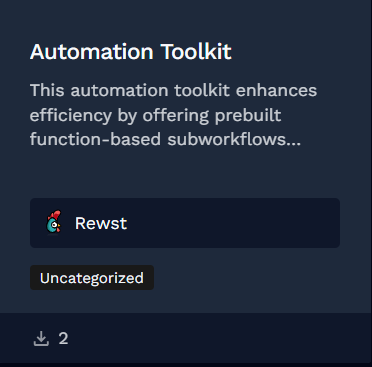
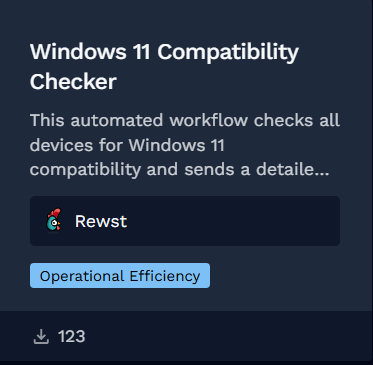
DocsUpdate-2095: giovanni.maligro's Dec 2 changes: Windows 11 Compatibility Checker Crate

diff --git a/documentation/crates/existing-crate-documentation/windows-11-compatibility-checker-crate.md b/documentation/crates/existing-crate-documentation/windows-11-compatibility-checker-crate.md
@@ -1,0 +1,85 @@
+# Windows 11 Compatibility Checker Crate
+
+{% hint style="info" %}
+If you’re new to Crates, read through our introductory Crate documentation [here](https://docs.rewst.help/prebuilt-automations/crates). Find the Crate in our Crate Marketplace.
+{% endhint %}
+
+## What does the Windows 11 Compatibility Checker Crate do? <a href="#what-does-the-browse-rewst-form-triggers-within-a-form-and-attach-to-a-ticket-crate-do" id="what-does-the-browse-rewst-form-triggers-within-a-form-and-attach-to-a-ticket-crate-do"></a>
+
+Our Windows 11 Compatibility Checker Crate checks all devices for Windows 11 compatibility and sends a detailed report for incompatible devices through tickets and email reports. The Windows 11 Compatibility Checker Crate does not automatically upgrade your devices to Windows 11.
+
+The Crate workflow is triggered after completing a form that takes in details on where and how to send the report. The workflow then detects the default RMM and PSA of the organization the workflow is running on, and uses them in generating the list of devices and sending reports respectively.
+
+### Workflow breakdown
+
+1. The workflow begins with the **START** task using the **noop** action, which serves as the entry point and immediately transitions to the next step.
+2. The **get\_organization\_computers** task executes the **List Computers** action to retrieve all computers from the organization using the default RMM system, with retry logic implemented for N-able connections to handle temporary connectivity issues.
+3. The **filter\_windows\_devices** task uses the **Filter List** action to remove non-Windows computers from the device list, specifically excluding devices like Macs and focusing only on Windows-based systems.
+4. The **collect\_hardware\_information** task runs the **Run PowerShell via RMM** action with items iteration, executing a PowerShell script on each Windows device to gather hardware specifications including CPU, RAM, TPM status, and storage information.
+5. The **check\_compatibility\_requirements** task uses the **Set Variable** action to evaluate each device's hardware specifications against Windows 11 minimum requirements, determining compatibility status for each system.
+6. The **compile\_compatibility\_data** task executes the **Transform Data** action to organize the collected information into a structured format, including device names, last login information, and compatibility status.
+7. The **generate\_csv\_report** task uses the **Create CSV** action to compile all compatibility data into a comprehensive CSV report with columns for device name, last login, compatibility status, and hardware details.
+8. The **send\_compatibility\_report** task executes the **Send Email with Attachment** action using the configured cron\_email settings to distribute the CSV report to designated recipients.
+9. The workflow concludes with the **END** task using the **noop** action, marking the successful completion of the Windows 11 compatibility assessment and reporting process.
+
+## Crate prerequisites
+
+Your [PSA must be successfully integrated](../../configuration/integrations/top-5-integration-types-get-started-with-integrations-in-rewst.md#psa-integrations) with Rewst.
+
+## Unpack the Windows 11 Compatibility Checker Crate <a href="#unpack-the-browse-rewst-form-triggers-within-a-form-and-attach-to-a-ticket-crate" id="unpack-the-browse-rewst-form-triggers-within-a-form-and-attach-to-a-ticket-crate"></a>
+
+1. Navigate to **Crates** > **Crate Marketplace** in the left side menu of the Rewst platform.
+2. Search for `Windows 11 Compatibility Checker`.\
+   &#x20; \
+   &#x20;![](../../../.gitbook/assets/image.png)
+3. Click on the Crate tile to begin unpacking.
+4. Click **Unpack Crate**.
+5. Click **Continue**.
+6. Ensure that **Enabled** is toggled on for both **Webhook** triggers, **Cron Job**, and **Form Submission**. By default, both the **Webhook** triggers and **Cron Job** are disabled. Note that you have the option under the accordion menu of the trigger to activate the Crate for all future organizations in addition to the current one. You may also set the [trigger criteria](../../automations/intro-to-triggers/trigger-criteria.md) or [integration overrides](../../automations/intro-to-triggers/).
+7. Click **Unpack**.
+
+### Use the Crate
+
+1. Navigate to **Automations > Forms** in the left side menu of your Rewst platform.
+2. Search for `[REWST] Windows 11 Compatibility Report`.
+3. Click **⋮ > Usages > View Direct URLs.**
+4. Click on the link for the organization, which contains the user you wish to manage. This will launch the form in a new tab.
+5.  Choose or enter the applicable options from the following field, drop-down selector, and checkboxes:
+
+    * **Email address -** Enter the email address that will receive the report on the field. Leave this blank if you don't want to send an email.
+    * **Sender -** Select a user if you want to send from Microsoft 365. Leave the drop-down selector blank if you want to send from the Rewst platform.
+    * **Use Existing Ticket -** Choose this option if you want to use an existing ticket.
+    * **Send CSV -** Choose this option if you want to include a CSV file with the report. The CSV is a one-time link.
+    * **Create Ticket -** Choose this option if you want to create a support ticket.
+
+    <figure><img src="../../../.gitbook/assets/image (316).png" alt="A navy blue screen with white test and several fields, presented as a form to be filled out. The title across the page says &#x22;Windows 11 Compatibility Report Submission.&#x22;"><figcaption></figcaption></figure>
+6. Click **Submit**.  You'll see message at the top of your screen indicating the form is submitted successfully.
+
+## Organization variables associated with this Crate
+
+{% hint style="info" %}
+For more on organization variables and how to use them, see our org variable documentation [here](https://docs.rewst.help/documentation/configuration/organization-variables).
+
+Organization variables not found in our standard organization variables documentation, such as the ones listed below. are typically system variables that are handled by integration mappings.
+
+If you haven't done so already, we recommended that you run the [Configure Organization Variables Crate](https://docs.rewst.help/documentation/crates/existing-crate-documentation/configure-organization-variables), which will help you set org variables that are relevant to you and your customer's environments.
+{% endhint %}
+
+There is no required variable, but if none is set, the Crate will not report anything.
+
+* `vars.cron_email`: This is the email address that will receive the report.
+* `vars.cron_report_csv`: This will include a CSV file if set to true.
+* `vars.cron_m365_send_as_guid`: If you would like to use Microsoft 365 to send the email, this will require the GUID of a Microsoft 365 user. This isn't required and will use Rewst to send the email if left blank or if it fails.
+* `vars.cron_ticket`: This is required if you would like to create a ticket. This can be either true or false.
+* `vars.cron_board_id`: This will require a board ID. This will default to `ORG.VARIABLES.default_psa` if you do not set anything.
+* `vars.cron_status`: This will require the ticket status ID. This requires **board\_id** and will default to `ORG.VARIABLES.psa_default_ticket_status` if not set.
+
+The variables below may not be supported based on your PSA and may not be required.
+
+* `vars.cron_type_id`: This will require a ticket **type\_id**. If left blank, it will not set a type.
+* `vars.cron_subtype_id`: This will require a ticket subtype ID. This requires a **type\_id** and if left blank, it will just not set a subtype.
+* `vars.cron_item_id`: This will require a ticket item ID. This requires **type\_id** and **subtype\_id**. If left blank, it will not set an item.
+
+{% hint style="info" %}
+Got an idea for a new Crate? Rewst is constantly adding new Crates to our Crate Marketplace. Submit your idea or upvote existing ideas here in our [Canny feedback collector](https://rewst.canny.io/crates).
+{% endhint %}

diff --git a/SUMMARY.md b/SUMMARY.md
@@ -299,6 +299,7 @@
     * [Use OpenAI to Suggest Responses to New Tickets Crate](documentation/crates/existing-crate-documentation/use-openai-to-suggest-responses-to-new-tickets-crate.md)
     * [User Offboarding V2 Crate](documentation/crates/existing-crate-documentation/user-offboarding-v2.md)
     * [View Rewst integration Org Variables](documentation/crates/existing-crate-documentation/view-rewst-integration-org-variables.md)
+    * [Windows 11 Compatibility Checker Crate](documentation/crates/existing-crate-documentation/windows-11-compatibility-checker-crate.md)
     * [Windows Patch Deployer Crate](documentation/crates/existing-crate-documentation/windows-patch-deployer-crate.md)
     * [Workstation Offboarding Crate](documentation/crates/existing-crate-documentation/workstation-offboarding-crate.md)
 * [Configuration](documentation/configuration/README.md)

diff --git a/documentation/crates/existing-crate-documentation/automation-toolkit-crate.md b/documentation/crates/existing-crate-documentation/automation-toolkit-crate.md
@@ -26,7 +26,7 @@ This Crate leverages powerful native integrations within Rewst to ensure seamles
 1. Navigate to **Crates** > **Crate Marketplace** in the left side menu Rewst platform.
 2. Search for `Automation Toolkit`.\
    &#x20; \
-   &#x20;![](../../../.gitbook/assets/image.png)
+   &#x20;![](<../../../.gitbook/assets/image (317).png>)
 3. Click on the Crate tile to begin unpacking.
 4. Click **Unpack Crate**.
 5. Click **Continue**.
